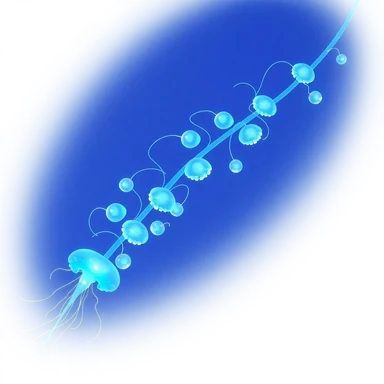
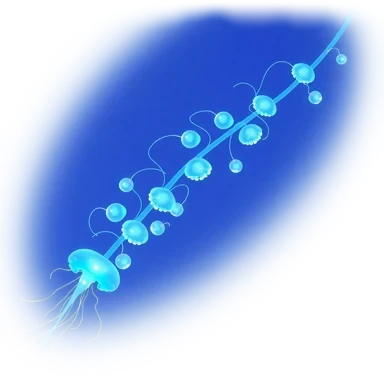
No straight cuts at picture edges: the wreck's rubble, the horizon port, the volcano's plume, the siphonophore's glow, a gannet's wing tip and the grand garden's foot end along soft, wandering contours (found by scanning every picture's borders)

Changed region(s): [[0.4062, 0.0, 0.9375, 0.0938]]

diff --git a/scripts/fx/edge_fade.py b/scripts/fx/edge_fade.py
@@ -1,0 +1,45 @@
+# Natural ends instead of straight cuts (user: "get rid of all cut assets: end with natural contours,
+# not straight cuts / asset image end"). Pictures whose art runs into the picture's edge get that edge
+# eaten away along a soft, wandering contour: the coral rubble of a wreck thins out, a horizon town
+# fades into haze, a plume or a wing tip ends softly. Found by scanning every picture for opaque runs
+# along its borders. Reads the untouched originals (kept outside public/) and writes into public/img.
+# usage: python -I scripts/fx/edge_fade.py <originals dir> <repo root>
+import sys, os
+import numpy as np
+from PIL import Image
+from scipy import ndimage as nd
+
+SRC, ROOT = sys.argv[1], sys.argv[2]
+# picture (under public/img) -> {edge: share of the picture's width (left/right) or height (top/bottom) that fades}
+EDGES = {
+    'props/wreck_2.webp': {'left': 0.12, 'right': 0.06},       # coral rubble cut off at the picture's sides
+    'sky/port.webp': {'left': 0.16, 'right': 0.1},             # the horizon town ends in haze
+    'sky/volcano.webp': {'top': 0.14},                         # the plume thins out upward
+    'siphon_card.webp': {'top': 0.1},                          # its soft glow touched the top
+    'gannet_glide.webp': {'top': 0.05},                        # the raised wing tip touched the top
+    'finale/grand_garden.webp': {'left': 0.08, 'right': 0.08}, # the garden's dark foot ran to the sides
+}
+WANDER = 0.45     # how far the contour wanders, share of the fade width
+
+def fade(a, edge, share, rng):
+    h, w = a.shape[:2]
+    along, across = (h, w) if edge in ('left', 'right') else (w, h)
+    width = max(4, share * across)
+    # A wandering contour along the edge: smooth noise, so it reads as a natural end.
+    n = nd.gaussian_filter1d(rng.standard_normal(along), along / 40)
+    n = n / (np.abs(n).max() + 1e-9)
+    limit = width * (1 - WANDER * (0.5 + 0.5 * n))                   # per row/column: how deep the fade reaches
+    d = np.arange(across, dtype=np.float32)[None, :] if edge in ('left', 'top') else (across - 1 - np.arange(across, dtype=np.float32))[None, :]
+    k = np.clip(d / limit[:, None], 0, 1)
+    k = k * k * (3 - 2 * k)
+    if edge in ('top', 'bottom'): k = k.T
+    a[..., 3] *= k
+
+rng = np.random.default_rng(12)
+for rel, edges in EDGES.items():
+    src = os.path.join(SRC, rel)
+    a = np.asarray(Image.open(src).convert('RGBA')).astype(np.float32)
+    for edge, share in edges.items(): fade(a, edge, share, rng)
+    out = os.path.join(ROOT, 'public', 'img', rel)
+    Image.fromarray(np.clip(a, 0, 255).astype(np.uint8), 'RGBA').save(out, quality=90, method=6)
+    print(rel, a.shape[1::-1])
